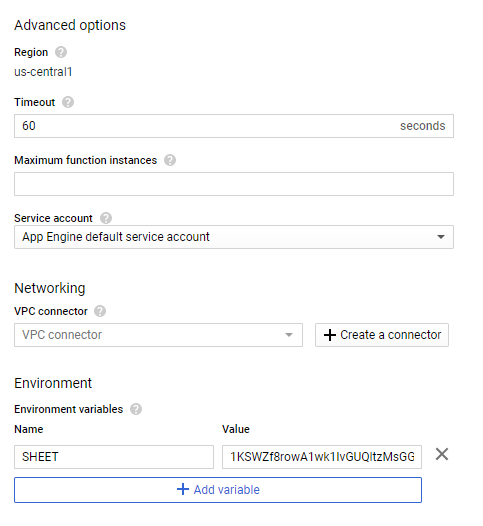
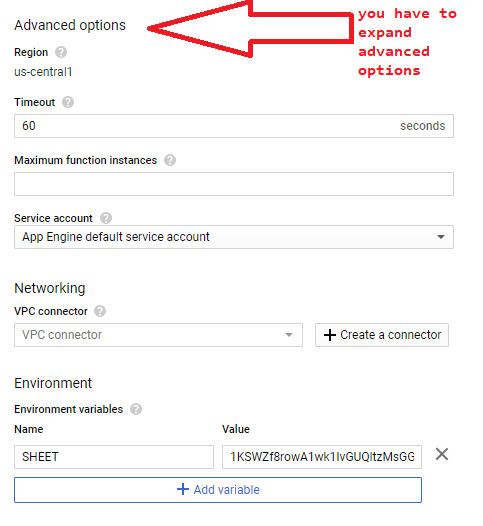
clearer instructions, included https

Changed region(s): [[0.4037, 0.0, 0.9627, 0.1521], [0.3106, 0.0304, 0.4658, 0.0913]]

diff --git a/README.md b/README.md
@@ -17,6 +17,7 @@ This project is designed to be open ended, so you can set it to interact with th
     - [Setting up the Google Cloud Platform](#Setting-up-the-Google-Cloud-Platform)
       - [Building a Cloud function](#Building-a-Cloud-function)
       - [Bind Service worker to Google Sheets](#Bind-Service-worker-to-Google-Sheets)
+      - [Copy the Trigger URL](#Copy-the-Trigger-URL)
     - [Program the ESP8266](#Program-the-ESP8266)
       - [How to program the device (for first timers)](#How-to-program-the-device-for-first-timers)
       - [Testing ESP8266 and Cloud Function](#Testing-ESP8266-and-Cloud-Function)
@@ -80,9 +81,9 @@ function main(urlData) {
       api.spreadsheets.values.append(
         //add it to the spreadsheet
         {
-          spreadsheetId: " ... ",
-          values: urlData
-        }
+          spreadsheetId: ' ... ',
+          values: urlData,
+        },
       );
     })
     .then(message => {
@@ -127,6 +128,8 @@ For this tutorial, we will call our project "datalogger" but you can call it wha
 
 #### Building a Cloud function
 
+Next up we're going to make a cloud function to add data to our spreadsheet, which is triggered by a url.
+
 Find "Cloud Functions" in the side menu, you can pin it to the top of the list to make it easier to find next time.
 
 ![cloud functions side menu](images/cloudFunctions.png)
@@ -135,30 +138,31 @@ If you don't have a function it should present you with one button saying "creat
 
 ![Cloud function page](images/newFunction.png)
 
-We've split the image so that you can see all what's going on:
+We've split the image and put it side by side so that you can see all what's going on:
 
 - Name the function something descriptive, without spaces. We've gone with `logData` as that is what the function will do.
 - Memory Allocated: This function really doesn't need much, so go with 128MB. if you're expecting to send more data, bump this up.
 - Trigger: we want to trigger with a HTTP request, which the URL is presented below (save this to put in the ESP later).
 - Source code: you can just use the inline editor
 - Runtime: We are using NodeJS for the code samples below, but you can also write python or `go` code if you want.
+- _Function to execute_: In this function we called it "main" as denoted by the "exports" in code. change this to be `main`
 
-Copy and paste the below code for **index.js**
+Then copy and paste the below code for **index.js**
 
 ```javascript
-const { google } = require("googleapis");
+const { google } = require('googleapis');
 
 function append(api, data) {
   return new Promise((resolve, reject) => {
     api.spreadsheets.values.append(
       {
         spreadsheetId: process.env.SHEET,
-        range: "A1:Z1",
-        insertDataOption: "INSERT_ROWS",
-        valueInputOption: "USER_ENTERED",
+        range: 'A1:Z1',
+        insertDataOption: 'INSERT_ROWS',
+        valueInputOption: 'USER_ENTERED',
         resource: {
-          values: [data]
-        }
+          values: [data],
+        },
       },
       function(err, response) {
         if (err) {
@@ -167,19 +171,19 @@ function append(api, data) {
         }
         resolve(response);
         return;
-      }
+      },
     );
   });
 }
 exports.main = (req, res) => {
   google.auth
     .getClient({
-      scopes: ["https://www.googleapis.com/auth/spreadsheets"]
+      scopes: ['https://www.googleapis.com/auth/spreadsheets'],
     })
     .then(auth => {
-      const api = google.sheets({ version: "v4", auth });
+      const api = google.sheets({ version: 'v4', auth });
 
-      append(api, req.query.data || req.body.data || ["no", "data", "sent"])
+      append(api, req.query.data || req.body.data || ['no', 'data', 'sent'])
         .then(e => {
           res.status(200).send(JSON.stringify(e, null, 2));
         })
@@ -190,7 +194,7 @@ exports.main = (req, res) => {
 };
 ```
 
-Then copy and paste the below code for **package.json**
+And copy and paste the below code for **package.json**
 
 ```json
 {
@@ -202,43 +206,55 @@ Then copy and paste the below code for **package.json**
 }
 ```
 
-- _Function to execute_: In this function we called it "main" as denoted by the "exports" in code. change this to be `main`
+**Next up is important**: expand the "Advanced options" or "environmental variables, networking, timeouts and more" line. This allows you to set up different variables, where we will put our sheet ID.
 
-Next up is important: expand the "environmental variables, networking, timeouts and more" line, so you get more advanced properties, and add an variable named "SHEET" containing your google Sheets ID, similar to below:
+You should see "Environmental Variables" - add an variable named "SHEET" containing your google Sheets ID, similar to below:
 
 ![environmental var](images/env.png)
 
+This is the sheet ID that you have copied from google sheets. Open up the google sheets in a new tab and copy the sheet id, like from below (underlined in red).
+
+![Google sheets](images/newSheet.png)
+
 This is so that the function knows what sheet to access and add data to _(This is the sheet you will "share" with the service worker later)_.
 
-Then press **Create** give it a a little while and it should deploy successfully. You should come to a screen like what is presented here: _(Note: we've cropped our image to make it fit on this page.)_
+Then press **Create** back on the cloud function, and give it a a little while to deploy successfully. You should come to a screen like what is presented here: _(Note: we've cropped our image to make it fit on this page.)_
 
 ![function properties](images/functionProperties.png)
 
 Two things to note here:
 
-- Service worker: This is the "google account" that acts on behalf of the function, we'll use this below so copy it.
+- Service worker: This is the "google account" that acts on behalf of the function, we'll use this soon.
 - Trigger tab: this shows you the URL used to trigger the function.
+
+Copy the service account address, and head back to google sheets.
 
 #### Bind Service worker to Google Sheets
 
-In a new tab, head back to your google sheet that you want to add data to, and click the `Share` button, in the top right.
+Make sure you're on the same google sheet that you want to log data to, and click the `Share` button in the top right.
 
-copy and paste the `service account` email address to the share link, and make sure that the permission is set to "Can Edit".
+Paste the `service account` email address to the share link, and make sure that the permission is set to "Can Edit".
 
 ![add service account to function](images/addService.png)
 
-This is done on Google Sheets so when the function tries to edit, the sheets will allow it to come from your service worker. You can go back to your function properties and try to open the trigger url if you want; when you access it, you should get a row of data on your sheet that says `"No", "Data", "Sent"`.
+What we're doing here, is allowing the "function's account" or the function to act on behalf of the service account, to add data (edit) the google sheet.. It is sort of like "sharing" your google sheet with a friend, however this friend is just a robot that operates on the google cloud functions.
+
+#### Copy the Trigger URL
+
+Head back to your Google Cloud Function, and click on the "Trigger" tab. You can see a URL which is the http end point to trigger this function. Try opening it in a new tab, you will find that it will contain a lot of random unorganised data; and your google sheets will be updated with "No Data Sent"
+
+Copy this Trigger URL, we will place it in the ESP code shortly.
 
 ### Program the ESP8266
 
 There's two parts of code that you need to change for the esp code, found in `src/espCode/espCode.ino`:
 
 - WiFi connection details
-- Target URL, which is found from the _Function Properties_ as above, but with the `https://` replaced with `http://`.
+- Target URL, which is found from the _Function Properties_ as above.
 
 ![making changes](images/url.png)
 
-We change it to `http` as dealing with SSL is a bit of a pain to do on the ESP8266. If you are up for a challenge, feel free to submit a pull request enabling `https://`, We'd love to see it!
+_Note:_ We are using an insecure version of https, as in: we ask for https but we don't verify what we're connecting with. This is insecure but easier to deal with.
 
 Change the code to reflect your details and upload onto the ESP portion of the [XC4411](https://jaycar.com.au/p/XC4411).
 
@@ -247,21 +263,24 @@ If you've never used any ESP8266 device before, read the below section for a qui
 #### How to program the device (for first timers)
 
 If this is your first ESP8266 project ( products include [XC3802](https://jaycar.com.au/p/XC3802) and [XC4411](https://jaycar.com.au/p/XC4411), among others) then you need to set up Arduino to work with ESP8266. Start by getting the manual of the [XC3802](https://jaycar.com.au/p/XC3802) and install the board through the Boards manager.
-Once they are installed, change the Board type to `Generic ESP8266` and change the dip-switches on the [XC4411](https://jaycar.com.au/p/XC4411) so that 5,6, and 7 are `ON` with all others off. When uploading, you might get to a point where it will output a string like `....______......____` - Press the reset button on the board to reboot it and program correctly.
 
-When programming the arduino portion, change the dip-switches so that 3 and 4 are `ON` with 1,2,5,6, and 7 are `OFF`. Once both halves are programmed, you connect the two by turning all switches off and setting 1 and 2 to `ON`.
+Once they are installed, to program the [XC4411](https://jaycar.com.au/p/XC4411) ESP, change the Board type to `Generic ESP8266` and change the dip-switches on the board so that 5,6, and 7 are `ON` with all others off. When uploading, you might get to a point where it will output a string like `....______......____` - Press the reset button on the board to reboot it and program correctly.
+
+When programming the arduino portion, change the dip-switches so that 3 and 4 are `ON` with 1,2,5,6, and 7 are `OFF`. Once both halves are programmed, you connect the two by turning all switches off and setting 1 and 2 to `ON`. For more information or a smaller trial program to try, use the software and manual on the [XC4411](https://jaycar.com.au/p/XC4411) product page.
 
 #### Testing ESP8266 and Cloud Function
 
-Once the ESPCode is uploaded, you can turn dip-switch 7 `OFF` and open up the _Serial Monitor_. Set to the correct baud speed (default: 115200) and reset the device. You should see that it has connected to the WiFi network, and if you type in something such as:
+Once the ESPCode is uploaded, you can turn dip-switch 7 `OFF` and open up the _**Serial Monitor**_. Set to the correct baud speed (default: 115200) and reset the device. You should see that it has connected to the WiFi network, and if you type in something such as:
 
 ```json
 [1, 2, "This is a string", 4]
 ```
 
+Note that you are typing this into the serial monitor.
+
 You will find this information has been uploaded onto your google spreadsheet. This means we're half-way there, and what's more is that it's a very simple process which might be starting to make sense to you; The ESP gets the serial data, and sends it to the URL; The Google Cloud function we made before then takes the data and adds it to your google sheet, as the service worker user, just as if someone else has added that data.
 
-_Note, this is JSON data, so it must be properly formatted. In our code, we use the brilliant [ArduinoJSON](https://arduinojson.org/) library to parse everything correctly._
+_Note, this is JSON data, so it must be properly formatted. In our code, we use the brilliant [ArduinoJSON](https://arduinojson.org/) library to parse everything correctly, but in the serial monitor you must format it yourself._
 
 ### Assemble the shield and set up RTC
 
@@ -373,6 +392,8 @@ Have a look at some of the other apis and find a way to connect the API to new g
 
 The following links are not an endorsement nor have any guarantee of quality in terms of suitability for this project, but we hope they are useful for you in your maker journey.
 
+- Using the XC4411
+  - <https://www.jaycar.com.au/medias/sys_master/images/9356641828894/XC4411-manualMain.pdf>
 - Writing Cloud Functions
   - <https://cloud.google.com/functions/docs/writing/http>
 - Arduino Memory allocation (Good read!)
